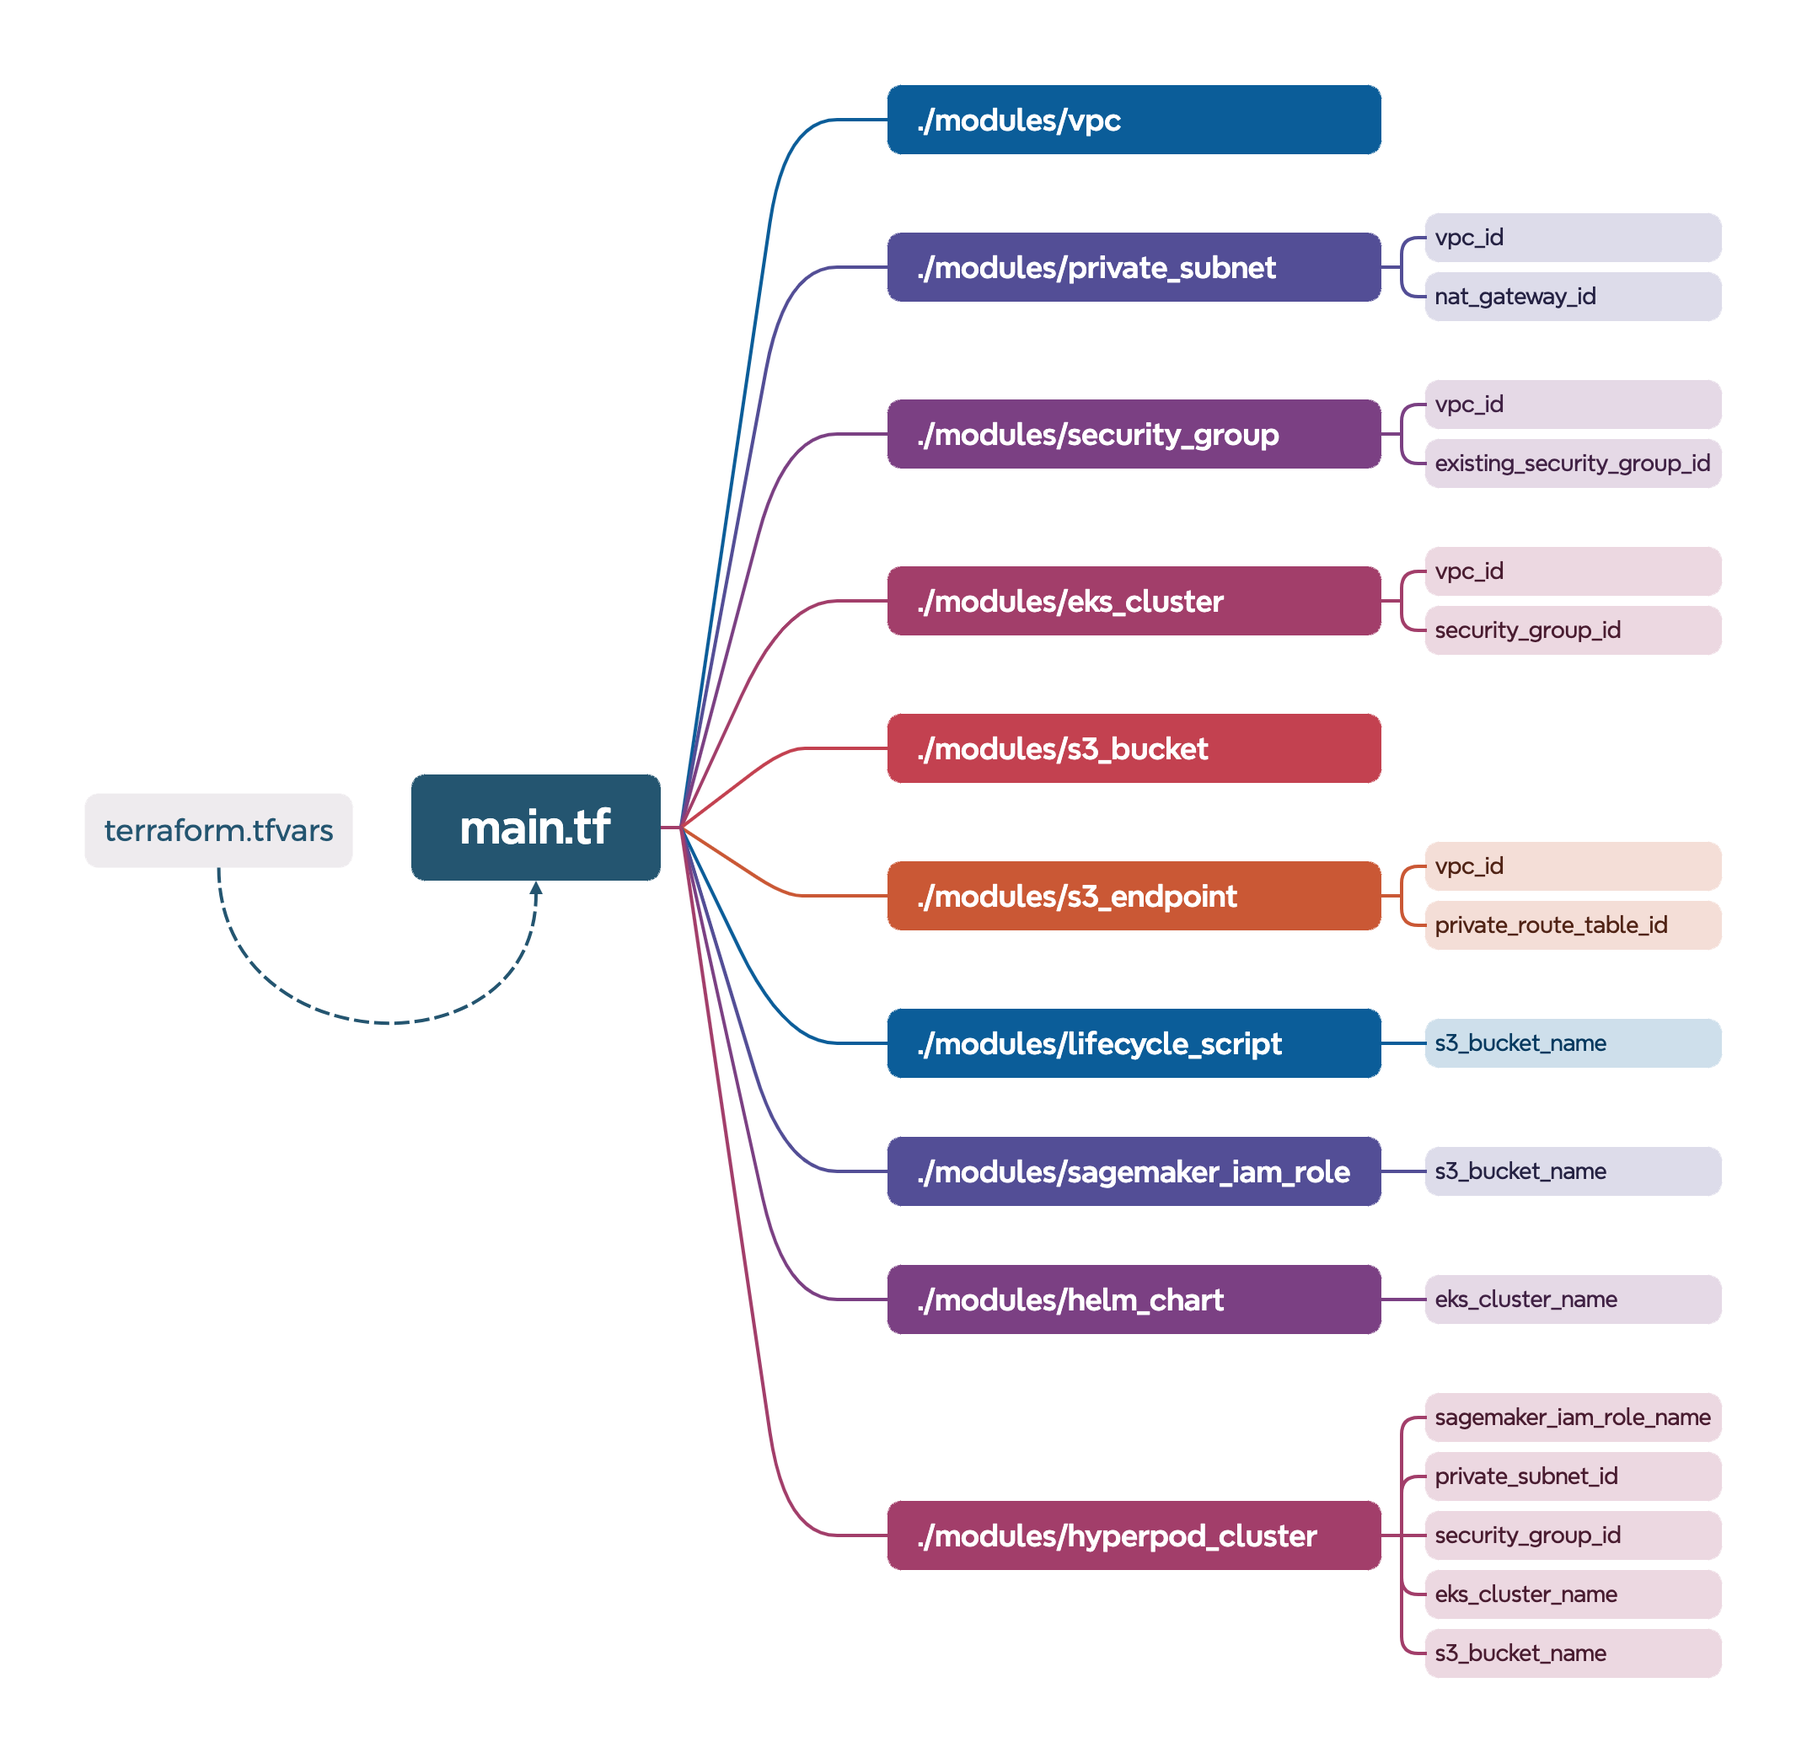
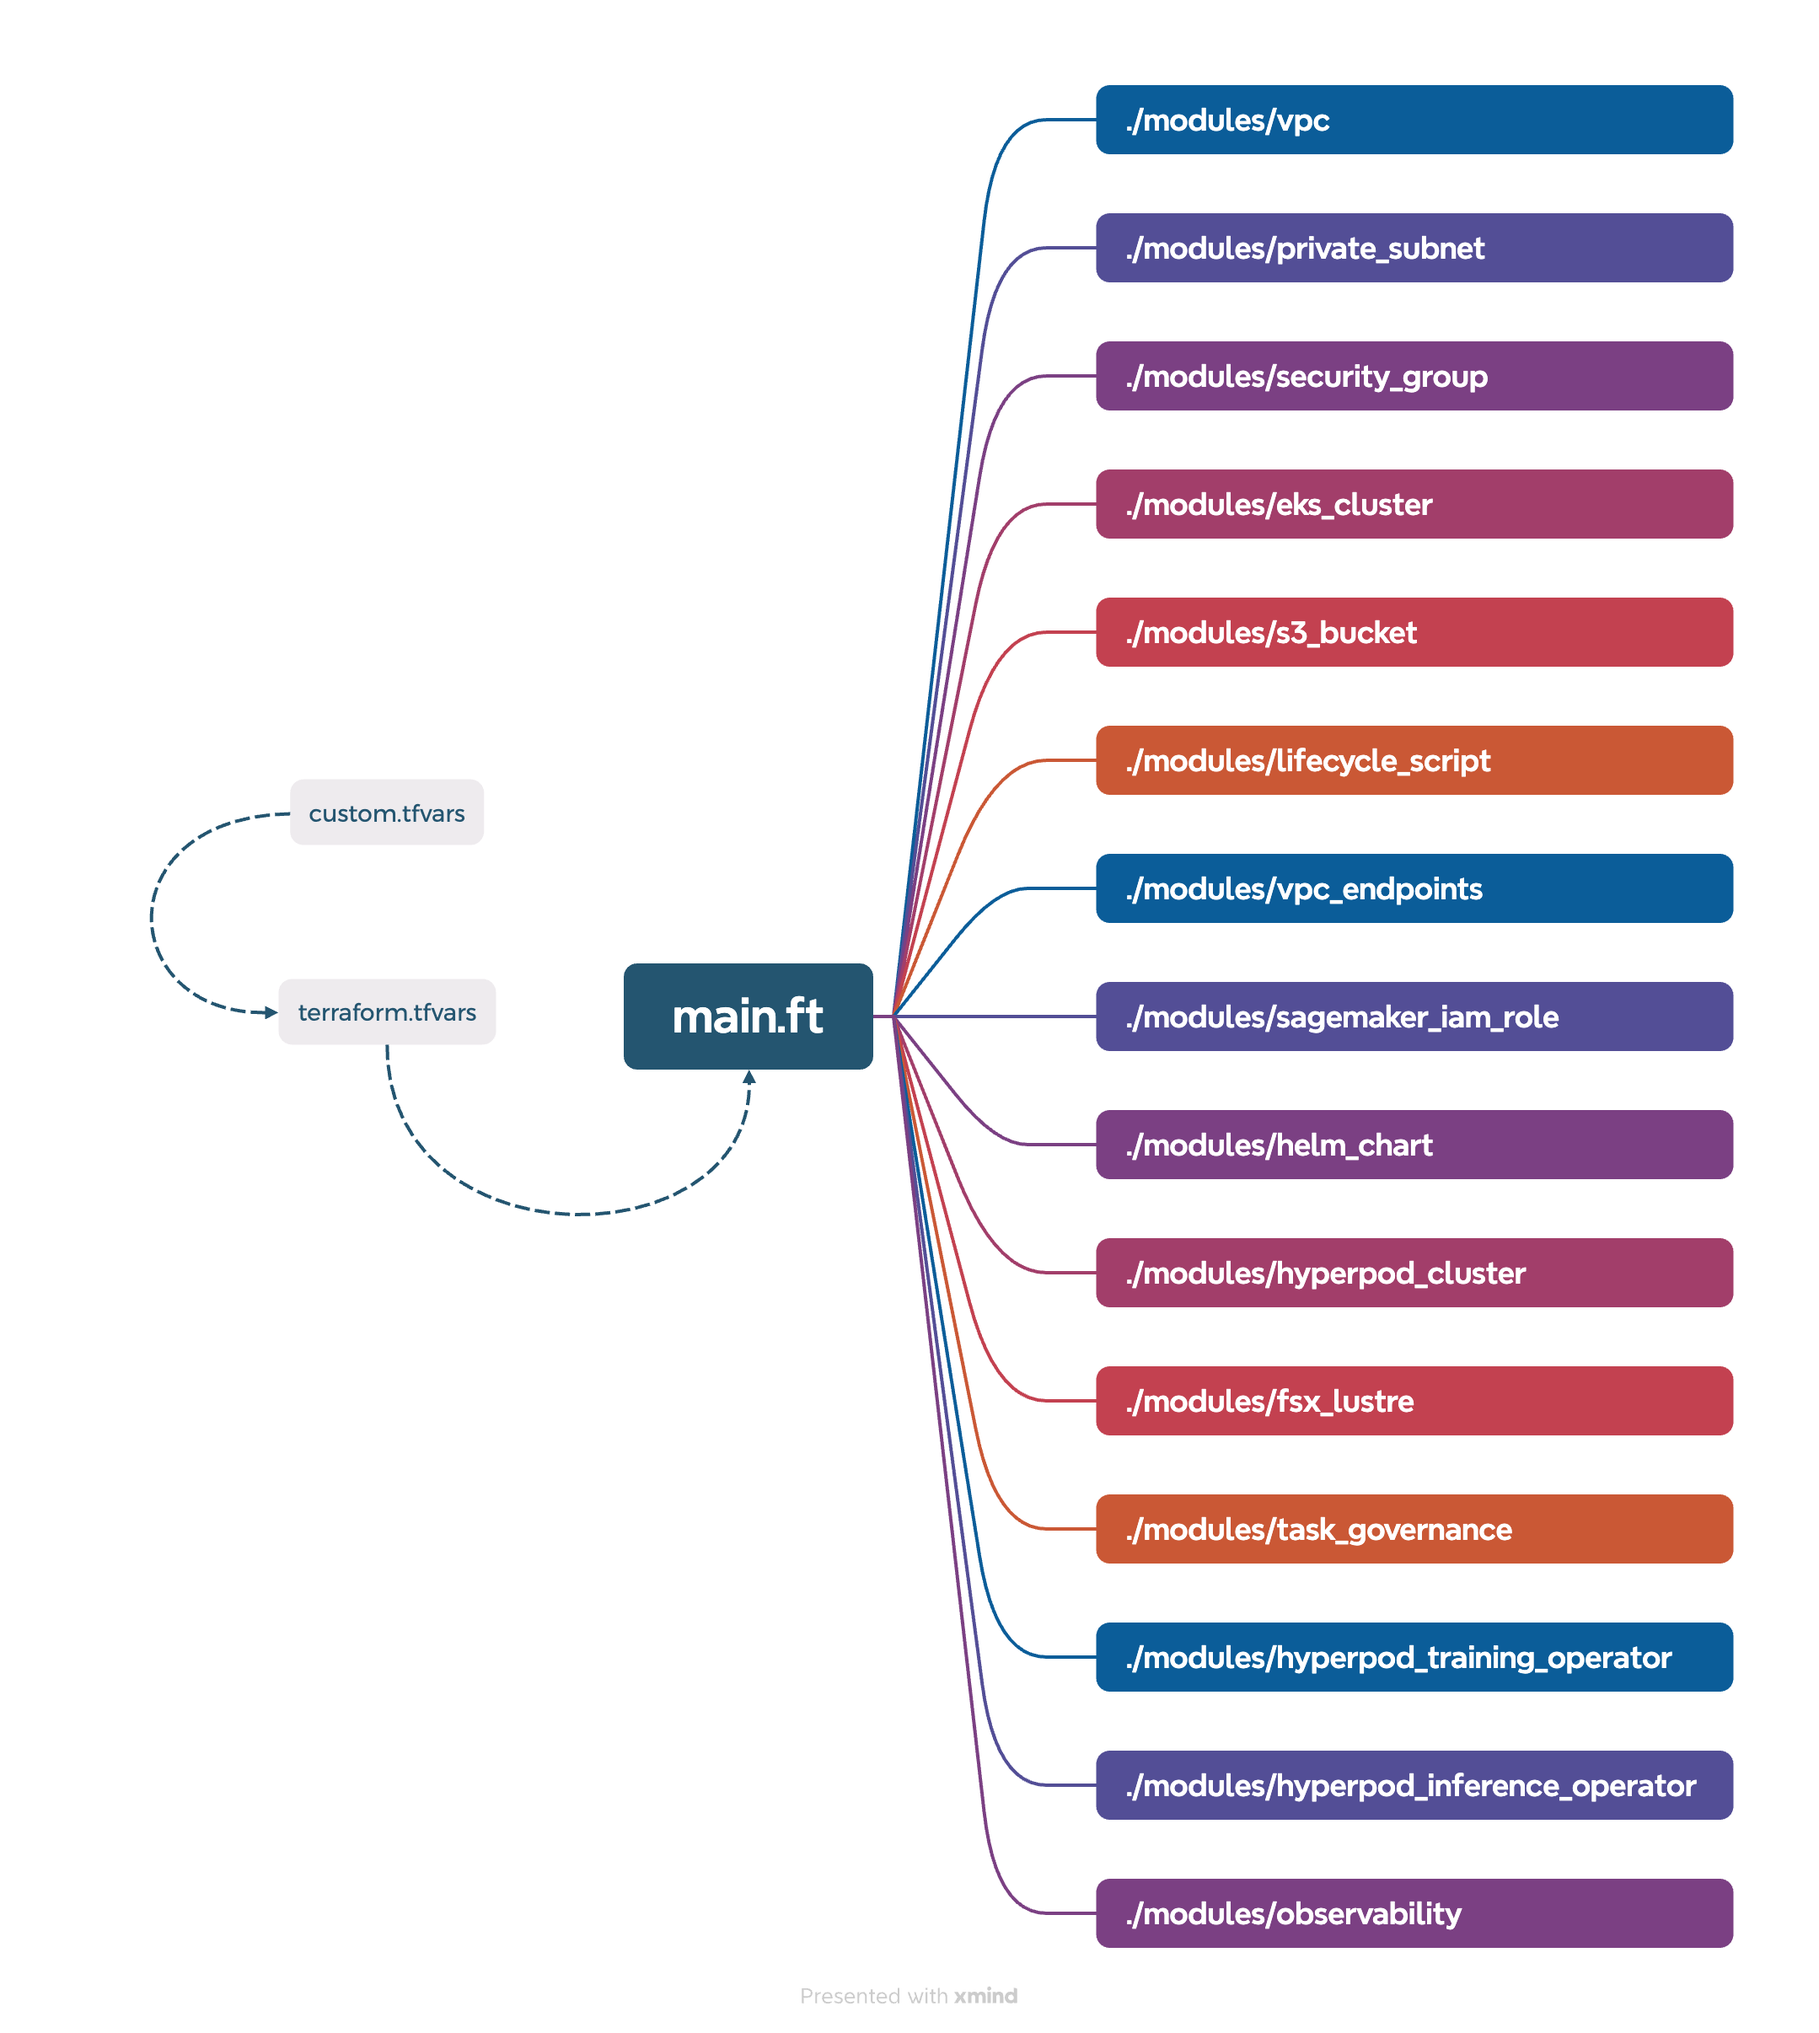
added additional git cleanup steps, updated README.md

diff --git a/1.architectures/7.sagemaker-hyperpod-eks/terraform-modules/README.md b/1.architectures/7.sagemaker-hyperpod-eks/terraform-modules/README.md
@@ -22,7 +22,9 @@ If you wish to reuse any cloud resources rather than creating new ones, set the 
 
 For example, if you want to reuse an existing VPC, set `create_vpc_module ` to `false`, then set `existing_vpc_id` to your VPC ID, like `vpc-1234567890abcdef0`. 
 
-#### Using a `custom.tfvars` File 
+---
+
+### Using a `custom.tfvars` File 
 To modify your deployment details without having to open and edit the `terraform.tfvars` file directly, create a `custom.tfvars` file with your parameter overrides. 
 
 For example, the following `custom.tfvars` file would enable the creation of all new resources including a new EKS Cluster and a HyperPod instance group of 5 `ml.p5en.48xlarge` instances in `us-west-2`:
@@ -48,8 +50,9 @@ instance_groups = {
 }
 EOL
 ```
+---
 
-#### Using an Existing EKS Cluster with HyperPod
+### Using an Existing EKS Cluster with HyperPod
 
 The following `custom.tfvars` file uses an existing EKS Cluster (referenced by name) along with an existing Security Group, VPC, and NAT Gateway (referenced by ID):
 ```bash
@@ -78,7 +81,35 @@ instance_groups = {
 EOL
 ```
 ---
-#### Creating a Restricted Instance Group (RIG) for Nova Model Customization
+### Enabling Optional Addons 
+Set the following parameters to `true` in your `custom.tfvars` file to enable optional addons for your HyperPod cluster (e.g. `create_task_governance_module = true`):
+| Parameter | Usage |
+|-----------|-------|
+| `create_task_governance_module`    | Installs the [HyperPod task governance addon](https://docs.aws.amazon.com/sagemaker/latest/dg/sagemaker-hyperpod-eks-operate-console-ui-governance.html) for  job queuing, prioritization, and scheduling on multi-team compute clusters |
+| `create_hyperpod_training_operator_module`   | Installs the [HyperPod training operator addon](https://docs.aws.amazon.com/sagemaker/latest/dg/sagemaker-eks-operator.html) for intelligent fault recovery, hang job detection, and process-level management capabilities (required for [Checkpointless](https://docs.aws.amazon.com/sagemaker/latest/dg/sagemaker-eks-checkpointless.html) and [Elastic](https://docs.aws.amazon.com/sagemaker/latest/dg/sagemaker-eks-elastic-training.html) training)|
+| `create_hyperpod_inference_operator_module`  | Installs the [HyperPod inference operator addon](https://docs.aws.amazon.com/sagemaker/latest/dg/sagemaker-hyperpod-model-deployment-setup.html) for deployment and management of machine learning inference endpoints |
+| `create_observability_module` | Installs the [HyperPod Observability addon](https://docs.aws.amazon.com/sagemaker/latest/dg/hyperpod-observability-addon-setup.html) to publish key metrics to Amazon Managed Service for Prometheus and displays them in Amazon Managed Grafana dashboards | 
+
+---
+### Advanced Observability Metrics Configuration
+In addition to enabling the [HyperPod Observability addon](https://docs.aws.amazon.com/sagemaker/latest/dg/hyperpod-observability-addon-setup.html) by setting `create_observability_module = true`, you can also configure the following metrics that you wish to collect on your cluster: 
+| Parameter | Default | Options | Usage |
+|-----------|---------|---------|-------|
+| `training_metric_level` | `BASIC` | `BASIC, ADVANCED` | Task duration, type, fault data (Advanced: Event-based task performance), [Learn More Here](https://docs.aws.amazon.com/sagemaker/latest/dg/hyperpod-observability-cluster-metrics.html#hyperpod-observability-training-metrics)
+| `task_governance_metric_level` | `DISABLED` | `DISABLED, ADVANCED` | Team-level resource allocation, [Learn More Here](https://docs.aws.amazon.com/sagemaker/latest/dg/hyperpod-observability-cluster-metrics.html#hyperpod-observability-task-governance-metrics)
+| `scaling_metric_level` | `DISABLED` | `DISABLED, ADVANCED` | KEDA auto-scaling metrics, [Learn More Here](https://docs.aws.amazon.com/sagemaker/latest/dg/hyperpod-observability-cluster-metrics.html#hyperpod-observability-scaling-metrics)
+| `cluster_metric_level` | `BASIC` | `BASIC, ADVANCED` | Cluster health, instance count (Advanced: Detailed Kube-state cluster metrics), [Learn More Here](https://docs.aws.amazon.com/sagemaker/latest/dg/hyperpod-observability-cluster-metrics.html#hyperpod-observability-cluster-health-metrics)
+| `node_metric_level` | `BASIC` | `BASIC, ADVANCED` | CPU, disk, OS-level usage (Advanced: Full node exporter suite), [Learn More Here](https://docs.aws.amazon.com/sagemaker/latest/dg/hyperpod-observability-cluster-metrics.html#hyperpod-observability-instance-metrics)
+| `network_metric_level` | `DISABLED` | `DISABLED, ADVANCED` | Elastic Fabric Adapter metrics, [Learn More Here](https://docs.aws.amazon.com/sagemaker/latest/dg/hyperpod-observability-cluster-metrics.html#hyperpod-observability-network-metrics)
+| `accelerated_compute_metric_level` | `BASIC` | `BASIC, ADVANCED` | GPU utilization, temperature (Advanced: All NVIDIA GPU DCGM, Neuron metrics), [Learn More Here](https://docs.aws.amazon.com/sagemaker/latest/dg/hyperpod-observability-cluster-metrics.html#hyperpod-observability-accelerated-compute-metrics)
+| `logging_enabled` | `false` | `true, false` | When enabled, this will automatically create the required log groups in Amazon CloudWatch and start recording all container and pod logs as log streams
+---
+### FSx for Lustre Module
+
+By default, the FSx for Lustre module installs the Amazon FSx for Lustre Container Storage Interface (CSI) Driver, but does not dynamically provision a new filesystem. For existing filesystems, you can follow [these steps in the AI on SageMaker HyperPod Workshop](https://awslabs.github.io/ai-on-sagemaker-hyperpod/docs/getting-started/orchestrated-by-eks/Set%20up%20your%20shared%20file%20system#option-3-bring-your-own-fsx-static-provisioning) for static provisioning. If you wish to create a new filesystem using Terraform, set the `create_new_fsx_filesystem` parameter to `true` in your `custom.tfvars` file, and review the `fsx_storage_capacity` (default 1200 GiB) and `fsx_throughput` (default 250 MBps/TiB) parameters to ensure they are set according to your requirements. 
+
+---
+### Creating a Restricted Instance Group (RIG) for Nova Model Customization
 
 As a prerequisite, you will need to identify or create input and output S3 buckets to reference in your deployment (represented as `my-tf-rig-test-input-bucket` and `my-tf-rig-test-output-bucket` in the following examples). 
 
